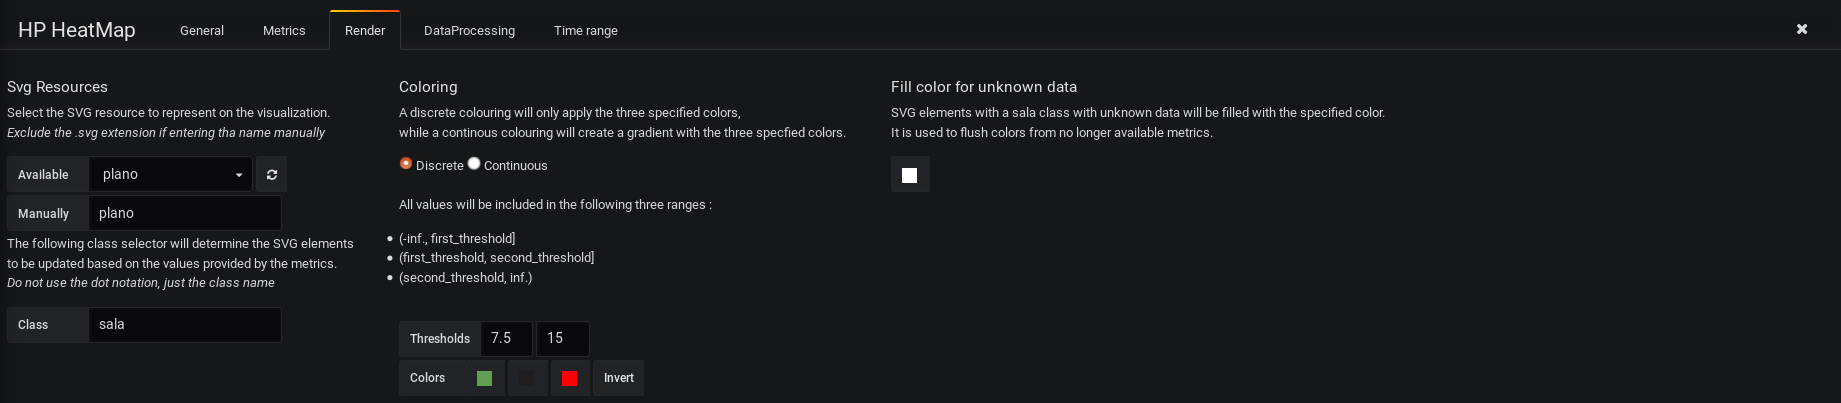
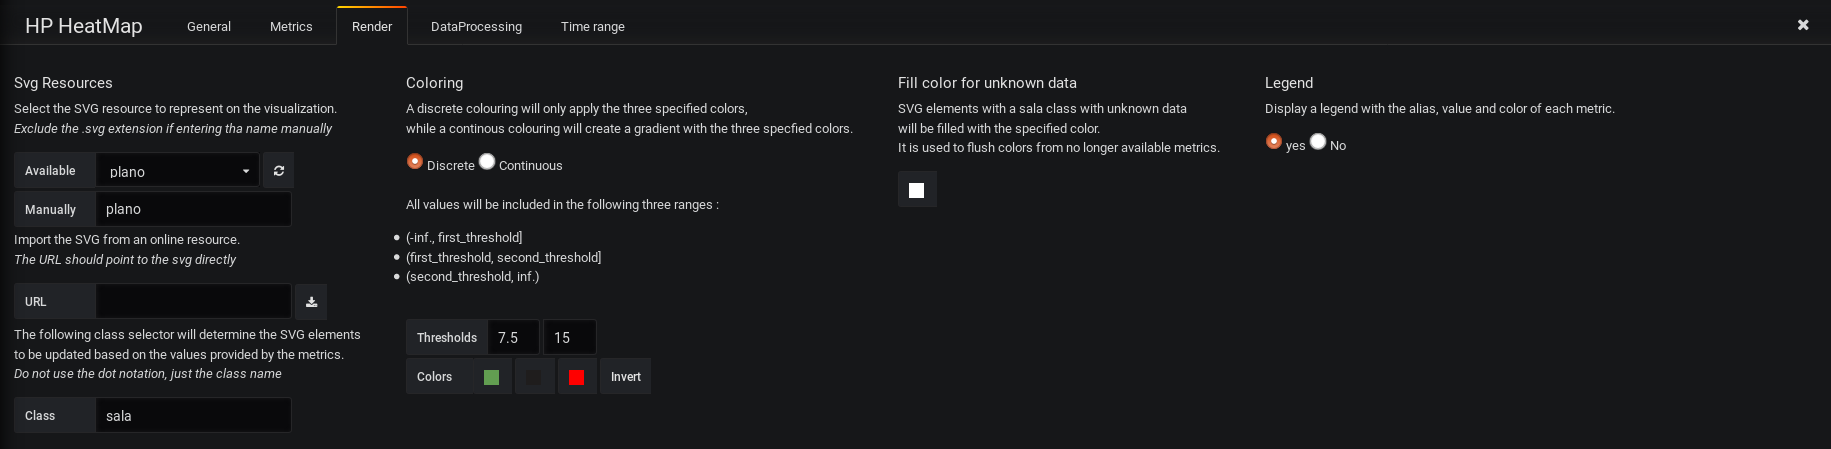
REAMDE updated

diff --git a/dist/heatmapCtrl.js b/dist/heatmapCtrl.js
@@ -71,7 +71,6 @@ System.register(['app/plugins/sdk', 'lodash', './panelDefaults.js', './features/
           _this.panel = _.defaultsDeep(_this.panel, defaults);
           _this.panel.panelDivId = 'heatmap-' + _this.$scope.$id;
 
-          console.info('Loading Features for v1.0...');
           _this.dataProcessingFeature = new DataProcessingFeature(_this.$scope);
           _this.panelActionsFeature = new PanelActionsFeature(_this.$scope);
           _this.renderFeature = new RenderFeature(_this.$scope);

diff --git a/src/heatmapCtrl.js b/src/heatmapCtrl.js
@@ -44,7 +44,6 @@ export class HeatmapController extends MetricsPanelCtrl{
         this.panel = _.defaultsDeep( this.panel, defaults);
         this.panel.panelDivId = 'heatmap-'+this.$scope.$id;
 
-        console.info('Loading Features for v1.0...');
         this.dataProcessingFeature = new DataProcessingFeature( this.$scope);
         this.panelActionsFeature = new PanelActionsFeature( this.$scope);
         this.renderFeature = new RenderFeature( this.$scope);

diff --git a/README.md b/README.md
@@ -17,6 +17,12 @@ selector and
 The plugin needs a base svg file on top of which to represent data by coloring the
 regions of the svg according to the identifiers, the values and color scale specified.
 
+> Now, it is possible to import an svg image directly through the Render editor tab.
+> Inserting the URL into the box and clicking in the adyacent import button is everything
+> needed to use the image in the plugin.
+> _Note that, given that the image is added client-side, it will not appear in the available
+> images, as there is not a possibility to store it locally_
+
 Firstly, save the svg resources under the _resources_ folder of the plugin.
 
 ![svg location](/img/svgLocation.png)
@@ -55,6 +61,8 @@ and to the alias of the metrics.
 All visually affecting options are groupped in this tab. Currently implemented options are :
 * SVG resurce name _excluding the .svg extension_
 
+* URL pointing to an SVG image online, to import it into the plugin
+
 * Class attribute for elements to be updated
 
 * Discrete / Continuous color scale
@@ -64,6 +72,9 @@ All visually affecting options are groupped in this tab. Currently implemented o
 * Colors to be used for data visualization
 
 * Color to be used for SVG elements without data
+
+* Legend for displaying the alias, value and color for each metric
+
 ### DataProcessing tab
 ![Data Processing Editor Tab](/img/dataProcessingEditorTab.png)
 Refered to the the manipulation of incomming data, it is possible

diff --git a/dist/README.md b/dist/README.md
@@ -17,6 +17,12 @@ selector and
 The plugin needs a base svg file on top of which to represent data by coloring the
 regions of the svg according to the identifiers, the values and color scale specified.
 
+> Now, it is possible to import an svg image directly through the Render editor tab.
+> Inserting the URL into the box and clicking in the adyacent import button is everything
+> needed to use the image in the plugin.
+> _Note that, given that the image is added client-side, it will not appear in the available
+> images, as there is not a possibility to store it locally_
+
 Firstly, save the svg resources under the _resources_ folder of the plugin.
 
 ![svg location](/img/svgLocation.png)
@@ -55,6 +61,8 @@ and to the alias of the metrics.
 All visually affecting options are groupped in this tab. Currently implemented options are :
 * SVG resurce name _excluding the .svg extension_
 
+* URL pointing to an SVG image online, to import it into the plugin
+
 * Class attribute for elements to be updated
 
 * Discrete / Continuous color scale
@@ -64,6 +72,9 @@ All visually affecting options are groupped in this tab. Currently implemented o
 * Colors to be used for data visualization
 
 * Color to be used for SVG elements without data
+
+* Legend for displaying the alias, value and color for each metric
+
 ### DataProcessing tab
 ![Data Processing Editor Tab](/img/dataProcessingEditorTab.png)
 Refered to the the manipulation of incomming data, it is possible
